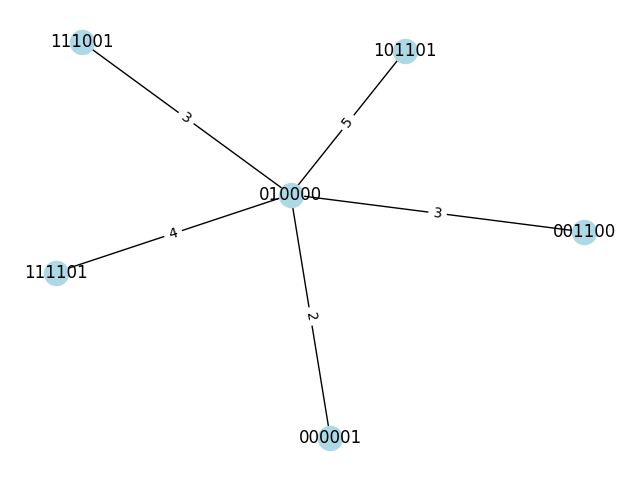
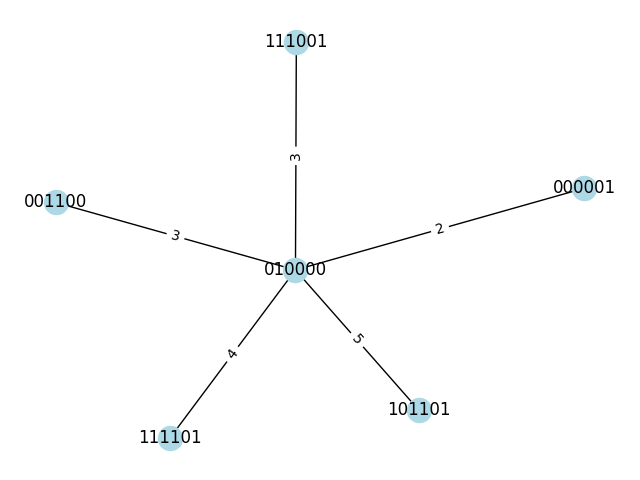
pushing everything

diff --git a/run_state_preparation.py b/run_state_preparation.py
@@ -11,6 +11,8 @@ from qiskit import transpile, QuantumCircuit
 import qiskit.qasm3
 from qiskit.quantum_info import random_statevector, Statevector
 from tqdm import tqdm
+import networkx as nx
+import matplotlib as plt
 
 from src.quantum_walks import (PathFinder, PathFinderLinear, PathFinderSHP, PathFinderMST, 
     PathFinderRandom, PathFinderGrayCode, GleinigPathFinder, BinaryTreePathFinder, GleinigWalk,
@@ -115,9 +117,9 @@ def merge_state_files():
         pickle.dump(merged, f)
 
 
-def run_prepare_state(init_state):
+def run_prepare_state(init_state, num_qubits_all, file_idxs):
     # method = "qiskit"
-    method = "gleinig_qwalk"
+    # method = "gleinig_qwalk"
     # method = "walks"
     method="gleinig"
     # path_finder = PathFinderRandom()
@@ -125,14 +127,14 @@ def run_prepare_state(init_state):
     # path_finder = PathFinderGrayCode()
     # path_finder = PathFinderSHP()
     # path_finder = GleinigPathFinderPframes()
-    # path_finder=PathFinderMHSLinear()
+    path_finder=PathFinderMHSLinear()
 
-    path_finder = GleinigPathFinder()
+    # path_finder = GleinigPathFinder()
     # path_finder = BinaryTreePathFinder()
     # path_finder=PathFinderHammingWeight()
     # path_finder = PathFinderMST()
     # num_qubits_all = np.array([5])
-    num_qubits_all = np.array(list(range(6, 7)))
+    # num_qubits_all = np.array(list(range(5, 6)))
     num_amplitudes_all = num_qubits_all # possible values are [num_qubits_all, num_qubits_all**2, 2**(num_qubits_all-1)]
     # out_col_name = "qiskit"
     # out_col_name = "gleinig_qwalk"
@@ -156,7 +158,7 @@ def run_prepare_state(init_state):
         states_file_path = os.path.join(data_folder, "states.pkl")
         with open(states_file_path, "rb") as f:
             state_list = pickle.load(f)
-        state_list=state_list[0:1:]
+        state_list=state_list[file_idxs[0]:file_idxs[1]:]
         results = []
         # state_list=[init_state]
         if num_workers == 1:
@@ -201,24 +203,30 @@ def run_prepare_state(init_state):
 #     print(f"Min CX: {np.min(results)}\n")
 
 
-def run_bruteforce_order_state(num_workers=1):
+def run_bruteforce_order_state(num_workers, algo_type, num_qubits_all, file_idxs):
     '''Brute force search.'''
     out_col_name = "brute_force_linear"
-    num_qubits_all = np.array(list(range(6, 7)))
+    # num_qubits_all = np.array(list(range(5, 6)))
     # num_workers = 1
     num_amplitudes_all = num_qubits_all
 
 
     results = []
     for num_qubits, num_amplitudes in zip(num_qubits_all, num_amplitudes_all):
-        process_func = partial(prepare_state_brute_star, num_amplitudes=num_amplitudes)
+        if algo_type=="linear":
+            process_func = partial(prepare_state_brute, num_amplitudes=num_amplitudes)
+        elif algo_type=="star":
+            process_func = partial(prepare_state_brute_star, num_amplitudes=num_amplitudes)
+        else:
+            assert False, "unkown exhaustive"
         print(f"Num qubits: {num_qubits}; num amplitudes: {num_amplitudes}")
         data_folder = f"data/qubits_{num_qubits}/m_{num_amplitudes}"
         states_file_path = os.path.join(data_folder, "states.pkl")
         with open(states_file_path, "rb") as f:
             state_list = pickle.load(f)
         results = []
-        state_list=state_list[0:1:]
+        # state_list=state_list[0:1:]
+        state_list=state_list[file_idxs[0]:file_idxs[1]:]
         if num_workers == 1:
             for result in tqdm(map(process_func, state_list), total=len(state_list), smoothing=0, ascii=' █'):
                 results.append(result)
@@ -278,40 +286,52 @@ def prepare_state_brute_star(target_state: dict[str, complex], num_amplitudes: i
     best_cx=None
     best_path=None
     best_circ_transpiled=None
-    gleinig_merger = MergeInitialize(target_state)
-    root, _, _, _=gleinig_merger._select_strings(target_state)
-    all_permutations = list(permutations(range(num_amplitudes-1)))
-    remaining_basis=list(target_state.keys())
-    remaining_basis.remove(root)
-    all_pairs=[[root, z2] for z2 in remaining_basis]
-    print("all pairs ", all_pairs)
+    all_basis_states=list(target_state.keys())
+    best_graph=None
+    for root in all_basis_states:
+        # gleinig_merger = MergeInitialize(target_state)
+        # root, _, _, _=gleinig_merger._select_strings(target_state)
+        all_permutations = list(permutations(range(num_amplitudes-1)))
+        remaining_basis=list(target_state.keys())
+        remaining_basis.remove(root)
+        all_pairs=[[root, z2] for z2 in remaining_basis]
+        # print("all pairs ", all_pairs)
 
-    for perm in all_permutations:
-        graph = Graph()
-        temp_pairs=[all_pairs[idx] for idx in perm]
-        for pair in temp_pairs:
-            graph.add_edge(pair[0], pair[1])
-        graph.graph["start"] = root
-        path_finder=PathFinderLinear()
-        path_finder.set_graph_attributes_from_pairs(graph, temp_pairs, target_state)
-        segments=path_finder.get_path_segments_from_pairs_leafsm(graph, temp_pairs, target_state)
-        print(segments)
-        circuit = PathConverter.convert_path_to_circuit_pframes_backwards_leafsm(segments, reduce_controls, remove_leading_cx, add_barriers)
-        circuit_transpiled = transpile(circuit, basis_gates=basis_gates, optimization_level=optimization_level)
-        cx_count = circuit_transpiled.count_ops().get("cx", 0)
-        print("cx count ", cx_count)
-        
-        # cx_count = prepare_state(target_state, method, path_finder, basis_gates, optimization_level, check_fidelity, 
-        #                          reduce_controls=reduce_controls, remove_leading_cx=remove_leading_cx,
-        #                          add_barriers=add_barriers)
-        results.append(cx_count)
-        if not best_cx or best_cx>cx_count:
-            best_cx=cx_count
-            best_path=temp_pairs
-            best_circ=circuit
-            best_circ_transpiled=circuit_transpiled
-        # print(circuit)
-    
+        for perm in all_permutations:
+            graph = Graph()
+            temp_pairs=[all_pairs[idx] for idx in perm]
+            for pair in temp_pairs:
+                val=sum([b1 != b2 for b1, b2 in zip(pair[0],pair[1])])
+                graph.add_edge(pair[0], pair[1], weight=val)
+            graph.graph["start"] = root
+            path_finder=PathFinderLinear()
+            path_finder.set_graph_attributes_from_pairs(graph, temp_pairs, target_state)
+            segments=path_finder.get_path_segments_from_pairs_leafsm(graph, temp_pairs, target_state)
+            print(segments)
+            circuit = PathConverter.convert_path_to_circuit_pframes_backwards_leafsm(segments, reduce_controls, remove_leading_cx, add_barriers)
+            circuit_transpiled = transpile(circuit, basis_gates=basis_gates, optimization_level=optimization_level)
+            cx_count = circuit_transpiled.count_ops().get("cx", 0)
+            print("cx count ", cx_count)
+            
+            # cx_count = prepare_state(target_state, method, path_finder, basis_gates, optimization_level, check_fidelity, 
+            #                          reduce_controls=reduce_controls, remove_leading_cx=remove_leading_cx,
+            #                          add_barriers=add_barriers)
+            results.append(cx_count)
+            if not best_cx or best_cx>cx_count:
+                best_cx=cx_count
+                best_path=temp_pairs
+                best_circ=circuit
+                best_circ_transpiled=circuit_transpiled
+                best_graph=graph
+            # print(circuit)
+    labels = nx.get_edge_attributes(graph,'weight')
+    pos = nx.spring_layout(graph)
+    nx.draw(graph, pos, with_labels=True, node_color="lightblue")
+    nx.draw_networkx_edge_labels(graph, pos, edge_labels=labels)
+
+    # Save the figure to a file
+    plt.pyplot.savefig(f"graph_star_{best_path[0]}.png")
+    plt.pyplot.clf()
     # print(f"Min CX: {np.min(results)}\n")
     # best_path_basis=[list(target_state.keys())[b] for b in best_path]
     print(f"best linear path: ", best_path)
@@ -736,7 +756,10 @@ if __name__ == "__main__":
     init_state={"010101": amp, "010110": amp, "101000": amp, "100011": amp, "101001": amp, "011110": amp}
 
     # print("min cx ", prepare_state_brute(init_state, len(init_state.keys())))
-    # run_bruteforce_order_state()
-    run_prepare_state(init_state)
+    qubits=np.array(list(range(6,7)))
+    file_indices=[0,1]
+    # run_bruteforce_order_state(1, "linear", qubits, file_indices)
+    run_bruteforce_order_state(1, "star", qubits, file_indices)
+    # run_prepare_state(init_state, qubits, file_indices)
     # run_greedy_order_state(num_workers=1)
     # run_bruteforce_order_state(num_workers=6)

diff --git a/src/quantum_walks.py b/src/quantum_walks.py
@@ -420,30 +420,90 @@ class PathFinderMST(PathFinder):
 
 
 class PathFinderMHSLinear(PathFinder):
-    """Returns the Minimum Spanning Tree on the basis states. """
+    """The Minimum Hitting Set method on the basis states. """
     def build_travel_graph(self, states: list[str]) -> Graph:
-        mhs_scores=self.get_all_mhs_scores(states)
-        ordered_states=self.order_basis_states_mhs(states)
-        print(states)
-        print(ordered_states)
+        # mhs_scores=self.get_all_mhs_scores(states)
+        # ordered_states=self.order_basis_states_mhs(states)
+        # print(states)
+        # print(ordered_states)
         graph = Graph()
-        root=ordered_states[0]
-        ordered_states.remove(root)
+        # root=ordered_states[0]
+        # ordered_states.remove(root)
         # ordered_states=self.order_by_hamming_dist(root, ordered_states)
         path=[]
+        basis_original=deepcopy(states)
+        basis_mutable=deepcopy(states)
+        for _ in range(len(states)-1):
+            # print("ordered states easiest firs ", self.order_basis_states_mhs(basis_mutable))
+            easy_node=self.order_basis_states_mhs(basis_mutable)[0]
+            easy_idx=basis_mutable.index(easy_node)
+            easy_z1=basis_original[easy_idx]
+            temp_basis_search_hard=deepcopy(basis_mutable)
+            temp_basis_search_hard.remove(easy_node) #remove easy node to search for hardest node.
+            hard_node=self.order_basis_states_mhs(temp_basis_search_hard)[-1]
+            hard_idx=basis_mutable.index(hard_node)
+            hard_z2=basis_original[hard_idx]
+            path.append([easy_z1, hard_z2])
+            basis_mutable.pop(hard_idx)
+            basis_original.pop(hard_idx)
+            basis_mutable=self.update_nodes(easy_z1, hard_z2, basis_mutable)
+            print("basis mutable ", basis_mutable)
         # for i in range(len(ordered_states) - 1):
         #     graph.add_edge(ordered_states[i], ordered_states[i + 1])
         # graph.graph["start"] = ordered_states[0]
-        for elem in ordered_states[::-1]:
-            graph.add_edge(root, elem)
-            path.append([root, elem])
-        graph.graph["start"] = root
+        # for elem in ordered_states[::-1]:
+        #     graph.add_edge(root, elem)
+        #     path.append([root, elem])
+        # graph.graph["start"] = root
         # bases=[list(reversed(pair)) for pair in bases]
-        # for pair in bases:
-        #     graph.add_edge(pair[0], pair[1])
-        # graph.graph["start"] = bases[0][0]
+        path=path[::-1] #we worked backwards.
+        for pair in path:
+            graph.add_edge(pair[0], pair[1])
+        graph.graph["start"] = path[0][0]
         return graph, path
-    
+
+    def update_nodes(self, z1, z2, visited):
+        def _get_good_interaction_idx(diffs, visited_transformed, origin_ind, interaction_ind):
+            visited_transformed=deepcopy(visited_transformed)
+            diffs=deepcopy(diffs)
+            diffs.remove(interaction_ind)
+            for ind in diffs:
+                update_visited(visited_transformed, interaction_ind, ind)
+            print("visited transformed ", visited_transformed)
+            print("origin index ", origin_ind)
+            print("interaction index ", interaction_ind)
+            return len(find_min_control_set(visited_transformed, origin_ind, interaction_ind))
+
+        def get_good_interaction_idx(diffs, visited_transformed, origin_ind, destination):
+            # print("z1 idx ", origin_ind)
+            def counter_func(idx, diffs_origin_rest): 
+                # print("idx ", idx)
+                # print("diffs ", diffs_origin_rest)
+                return sum([block.count(idx) for block in diffs_origin_rest])
+            # def _create_remaining_basis(elem, basis):
+            origin_node=visited_transformed[origin_ind]
+            remaining_basis=deepcopy(visited_transformed)
+            remaining_basis.pop(origin_ind)
+            diffs_origin_rest =[[ind for ind in range(len(origin_node)) if origin_node[ind] != z1[ind]] for z1 in remaining_basis]
+            # print("diffs ", diffs)
+            # print("diffs origin rest ", diffs_origin_rest)
+            for idx in diffs:
+                print(counter_func(idx, diffs_origin_rest))
+            sorted_diffs=sorted(diffs, key=
+                                lambda temp_interaction_idx: (
+                                _get_good_interaction_idx(diffs, visited_transformed, origin_ind, temp_interaction_idx),
+                                counter_func(temp_interaction_idx, diffs_origin_rest)))
+            # print("sorted z1 z2 diffs, ", sorted_diffs)
+            return sorted_diffs[0]
+        
+        diff_inds = list(np.where(np.array(z1) != np.array(z2))[0])
+        z1_index=visited.index(z1)
+        interaction_ind=get_good_interaction_idx(diff_inds, visited, z1_index, z2)
+        diff_inds.remove(interaction_ind)
+        for target in diff_inds: #update the visited nodes
+            update_visited(visited, interaction_ind, target)
+        return visited
+
     @staticmethod
     def order_by_hamming_dist(origin, remaining_basis):
         '''Orders the remaining basis by Hamming distance from origin.'''
@@ -472,7 +532,7 @@ class PathFinderMHSLinear(PathFinder):
         indices=range(len(basis[0]))
         return sorted(basis, key=lambda elem:
                                   (PathFinderMHSLinear.get_mhs_score(elem, _create_remaining_basis(elem, orig_basis)),
-                _count_elements([[ind for ind in indices if elem[ind] != z1[ind]] for z1 in _create_remaining_basis(elem, orig_basis)])))
+                -1*_count_elements([[ind for ind in indices if elem[ind] != z1[ind]] for z1 in _create_remaining_basis(elem, orig_basis)])))
 
 
 @dataclass
@@ -1332,3 +1392,22 @@ def update_visited(visited: list[list[int]], control: int, target: int):
     for label in visited:
         if label[control] == 1:
             label[target] = 1 - label[target]
+
+def find_min_control_set(existing_states: list[list[int]], target_state_ind: int, interaction_ind: int) -> list[int]:
+        """
+        Finds minimum set of control necessary to select the target state.
+        :param existing_states: List of states with non-zero amplitudes.
+        :param target_state_ind: Index of the target state in the existing_states.
+        :param interaction_ind: Index of target qubit for the controlled operation (to exclude from consideration for the control set).
+        :return: Minimum set of control indices necessary to select the target state.
+        """
+        get_diff_inds = lambda state1, state2: [ind for ind in range(len(state1)) if ind != interaction_ind and state1[ind] != state2[ind]]
+        difference_inds = [get_diff_inds(state, existing_states[target_state_ind]) for state_ind, state in enumerate(existing_states) if state_ind != target_state_ind]
+        # print(get_diff_inds)
+        # print("interaction idx ", interaction_ind)
+        # print("difference indices", difference_inds)
+        hitman = Hitman()
+        for inds_set in difference_inds:
+            hitman.hit(inds_set)
+        # print("hitman min set ", hitman.get())
+        return hitman.get()
